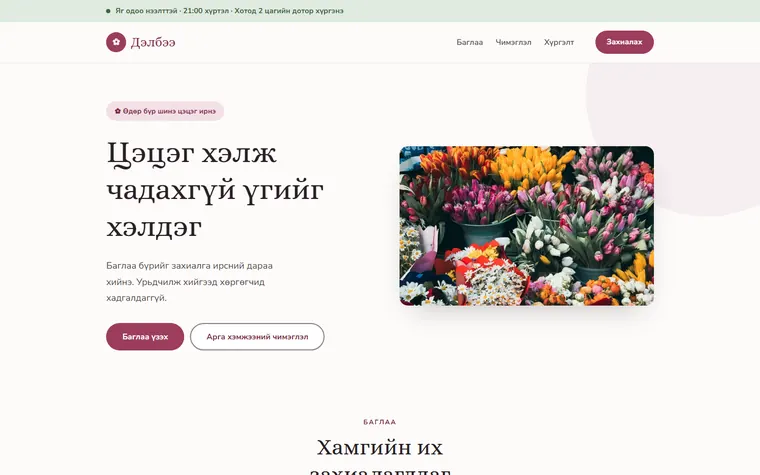
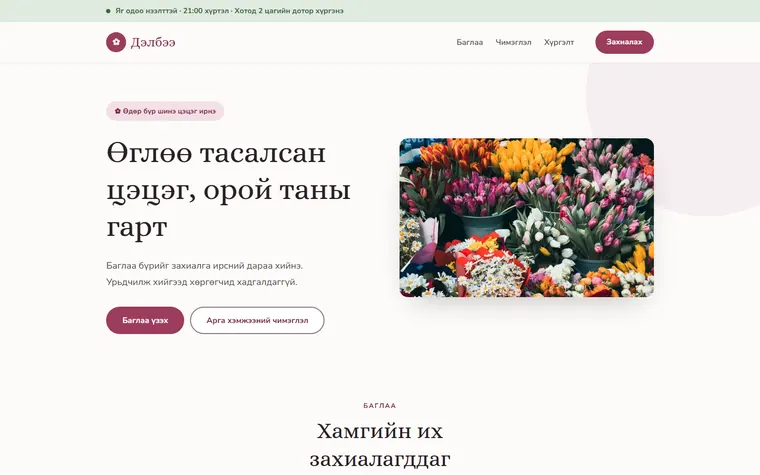
Орчуулгын уриа лоозон болсон найман гарчгийг монголчлов
Загвар бүрийн hero гарчгийг нэг дор задалж шалгахад ихэнх нь
жишигт нийцэж байв («Бүртгэл, цалин, тайлан — бид хариуцна»,
«Гурван танхим, нэг барилга», «Хугацаандаа. Төсөвтөө.»).
Гэвч найм нь англи сурталчилгааны зүйрлэлийн шууд орчуулга
байсныг солив — монголоор эдгээр нь утга хоосон сонсогддог.

  Хүрд    Гуч дөхөж буй нэр хүнд → Гучин жилийн нэр хүнд
          (нэр хүнд гуч дөхөж чадахгүй — компани дөхнө)
  Заал    Маргааш гэж байхгүй → Эхний алхам хамгийн хүнд
  Цэцэг   Цэцэг хэлж чадахгүй үгийг хэлдэг
          → Өглөө тасалсан цэцэг, орой таны гарт
  Дуу     Дуу чимээг санаа болгож хувиргадаг
          → Дүрсэнд тохирсон дуу чимээ
  Хурим   Та зөвхөн баярлах ёстой → Тэр өдөр та зочин байна
  Гоо     Өөрийгөө таних мэдрэмж → Мастер бүр нэг чиглэлд гүн
  Эмнэлэг Эмчид очихоос айхаа больё
          → Үзлэг, шинжилгээ, дүгнэлт — нэг өдөрт
  Баяр    Баярыг нь зохион байгуулаад өгье
          → Төрсөн өдөр, ой, хүүхдийн найр

Шинэ гарчиг бүр судалгаанаас гарсан гурван хэвшлийн нэгийг
дагасан: байр суурь илэрхийлсэн нэрлэсэн холбоо үг, тодорхой
баримт, эсвэл зэрэгцүүлсэн бүтэц.

ШАЛГУУРЫН ХУУРАМЧ ДОХИО ЗАСАВ

  Үнийн дүрэм зэргэлдээ нүдний ₮-г дараагийн тоотой холбож
  «₮ 780,000» гэж уншиж байв. Бодит байдалд 430,000₮ ба
  780,000₮ гэсэн хоёр зөв үнэ байсан. Мөн ₮ дүрс тэмдгийг
  (<i aria-hidden>₮</i>) дараагийн гарчигтай мөр дамжин
  холбож байв. Хоёуланг нь зассан.

  Хэсгийн шошгыг эх кодоос шалгахад «том үсэг биш» гэж 126
[…]

diff --git a/templates/corporate/hurd.html b/templates/corporate/hurd.html
@@ -156,7 +156,7 @@ h1,h2,h3{font-family:var(--ff-h);font-weight:400;letter-spacing:-.01em;line-heig
 <section class="hero" id="top">
   <div class="wrap">
     <p class="est">Үүсгэн байгуулагдсан 1997</p>
-    <h1>Гуч дөхөж буй <em>нэр хүнд</em>, өөрчлөгдөөгүй зарчим</h1>
+    <h1>Гучин жилийн <em>нэр хүнд</em>, өөрчлөгдөөгүй зарчим</h1>
     <div class="sub">
       <p>Уул уурхай, эрчим хүч, дэд бүтцийн салбарт үйл ажиллагаа явуулдаг холдинг компани. Бидний хувьд гэрээ бол амлалт.</p>
       <a class="btn btn-s" href="#services">Үйл ажиллагаа үзэх</a>

diff --git a/templates/portfolio/duu.html b/templates/portfolio/duu.html
@@ -171,7 +171,7 @@ h1,h2,h3{font-family:var(--ff-h);font-weight:800;line-height:1.06;letter-spacing
   <div class="wrap">
     <div class="hero-in">
       <span class="live"><s aria-hidden="true"></s>Шинэ төсөл хүлээн авч байна · 2026 Хавар</span>
-      <h1>Дуу чимээг <em>санаа</em> болгож хувиргадаг</h1>
+      <h1>Дүрсэнд тохирсон <em>дуу чимээ</em></h1>
       <p>Хөгжмийн продюсер, саунд дизайнер. Монгол зураглалын хөгжим, реклам, подкастын дуу бичлэг — Улаанбаатарт.</p>
       <div class="row">
         <a class="btn btn-p" href="#works">Бичлэгүүд сонсох</a>

diff --git a/templates/health/emneleg.html b/templates/health/emneleg.html
@@ -177,7 +177,7 @@ h1,h2,h3{font-weight:800;line-height:1.18;letter-spacing:-.022em;}
     <div class="hero-g">
       <div>
         <span class="pill">◷ Өнөөдөр 14:30-д чөлөөтэй цаг байна</span>
-        <h1>Эмчид очихоос <em>айхаа</em> больё</h1>
+        <h1>Үзлэг, шинжилгээ, <em>дүгнэлт</em> — нэг өдөрт</h1>
         <p class="lead">Ерөнхий үзлэг, лабораторийн шинжилгээ, нарийн мэргэжлийн эмч — нэг барилгад. Цаг товлосон цагтаа л орно.</p>
         <div class="row">
           <a class="btn btn-p" href="#book">Цаг авах</a>

diff --git a/templates/fitness/zaal.html b/templates/fitness/zaal.html
@@ -180,7 +180,7 @@ h1,h2,h3{font-family:var(--ff-h);font-weight:800;line-height:1.04;letter-spacing
   <div class="bgim im-zaal-hero" aria-hidden="true"></div>
   <div class="wrap hero-in">
     <span class="kick">Эхний 7 хоног үнэгүй</span>
-    <h1>Маргааш гэж <s>байхгүй</s></h1>
+    <h1>Эхний алхам <s>хамгийн хүнд</s></h1>
     <p>1,400 м². 24 цаг нээлттэй. 11 дасгалжуулагч. Эхний өдөр нь үргэлж хамгийн хэцүү — бид түүнийг тань дэргэд өнгөрүүлнэ.</p>
     <div class="row">
       <a class="btn btn-p" href="#price">Гишүүнчлэл сонгох</a>

diff --git a/templates/event/bayar.html b/templates/event/bayar.html
@@ -179,7 +179,7 @@ h1,h2,h3{font-family:var(--ff-h);font-weight:700;line-height:1.22;letter-spacing
   <div class="wrap hero-g">
     <div>
       <span class="pill">✦ 14 хоногийн өмнө захиалвал 15% хямд</span>
-      <h1>Баярыг нь <em>зохион байгуулаад</em> өгье</h1>
+      <h1>Төрсөн өдөр, <em>ой</em>, хүүхдийн найр</h1>
       <p class="lead">Төрсөн өдөр, ойн баяр, хүүхдийн найр. Чимэглэл, бэлэг, хөтөлбөр, зураг — та зөвхөн ирж цугларна.</p>
       <div class="row">
         <a class="btn btn-p" href="#packages">Багц үзэх</a>

diff --git a/templates/event/hurim.html b/templates/event/hurim.html
@@ -167,7 +167,7 @@ h1,h2,h3{font-family:var(--ff-h);font-weight:600;line-height:1.14;letter-spacing
   <div class="wrap hero-g">
     <div>
       <p class="orn">2017 оноос · 180 хурим</p>
-      <h1>Та зөвхөн <em>баярлах</em> ёстой</h1>
+      <h1>Тэр өдөр та <em>зочин</em> байна</h1>
       <p class="lead">Танхим, цэцэг, хоол, гэрэл зураг, хөтлөгч — бүгдийг бид зохицуулна. Тэр өдөр таны хийх ганц ажил бол байх.</p>
       <div class="row">
         <a class="btn btn-p" href="#packages">Багцууд үзэх</a>

diff --git a/templates/event/tsetseg.html b/templates/event/tsetseg.html
@@ -182,7 +182,7 @@ h1,h2,h3{font-family:var(--ff-h);font-weight:400;line-height:1.22;}
   <div class="wrap hero-g">
     <div>
       <span class="pill">✿ Өдөр бүр шинэ цэцэг ирнэ</span>
-      <h1>Цэцэг хэлж чадахгүй үгийг хэлдэг</h1>
+      <h1>Өглөө тасалсан цэцэг, орой таны гарт</h1>
       <p class="lead">Баглаа бүрийг захиалга ирсний дараа хийнэ. Урьдчилж хийгээд хөргөгчид хадгалдаггүй.</p>
       <div class="row">
         <a class="btn btn-p" href="#bouquets">Баглаа үзэх</a>

diff --git a/templates/fitness/goo.html b/templates/fitness/goo.html
@@ -166,7 +166,7 @@ h1,h2,h3{font-family:var(--ff-h);font-weight:400;line-height:1.22;letter-spacing
   <div class="wrap hero-g">
     <div>
       <p class="orn">2012 оноос хойш</p>
-      <h1>Өөрийгөө таних мэдрэмж</h1>
+      <h1>Мастер бүр нэг чиглэлд гүн</h1>
       <p class="lead">Үс, арьс, гар. Мастер бүр нэг л чиглэлээр гүн мэргэшсэн — бүх зүйлийг хийдэг хүн байхгүй.</p>
       <div class="row">
         <a class="btn btn-p" href="#book">Цаг захиалах</a>

diff --git a/templates/_data/БИЧВЭРИЙН-ЖИШИГ.md b/templates/_data/БИЧВЭРИЙН-ЖИШИГ.md
@@ -64,6 +64,13 @@
 
 Богино, 1–3 үг, том үсгээр. Тоо нэмж болно.
 
+Том үсэг рүү хөрвүүлэхийг **CSS-ийн `text-transform`-оор** хийнэ, эх
+кодод томоор бичихгүй. Иймээс HTML-д давхар бичих шаардлагагүй;
+бас дэлгэц уншигч том үсгийг үсэг тусбүрээр унших эрсдэлгүй болно.
+
+Өдрийн огноо, төлөв заасан тэмдэг (`◷ Элсэлт 5-р сарын 15 хүртэл`)
+том үсэг БИШ — тэдгээр нь хашгирах биш, мэдээлэх зорилготой.
+
 ```
 ҮЙЛЧИЛГЭЭ        БАГЦ ШИНЖИЛГЭЭ      МАНАЙ БАГ
 01 БЭЛЭН ЗАГВАР  ИДЭВХТЭЙ САНАЛ      АРГА ХЭМЖЭЭ
